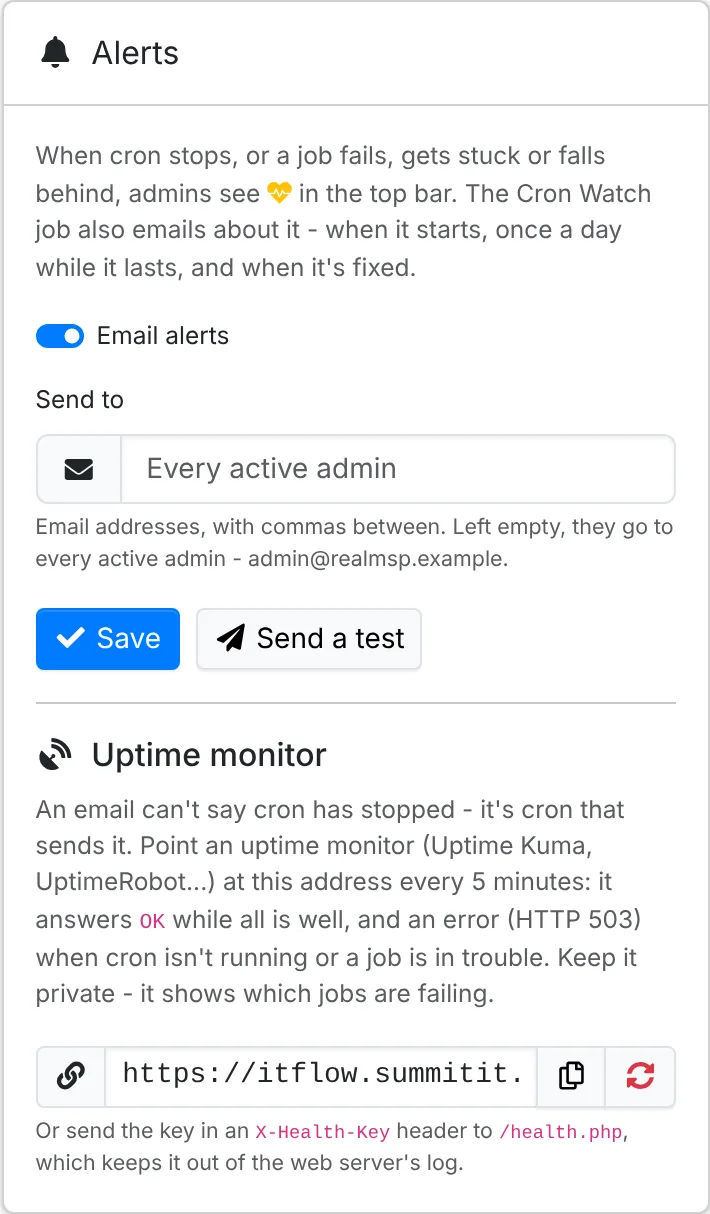
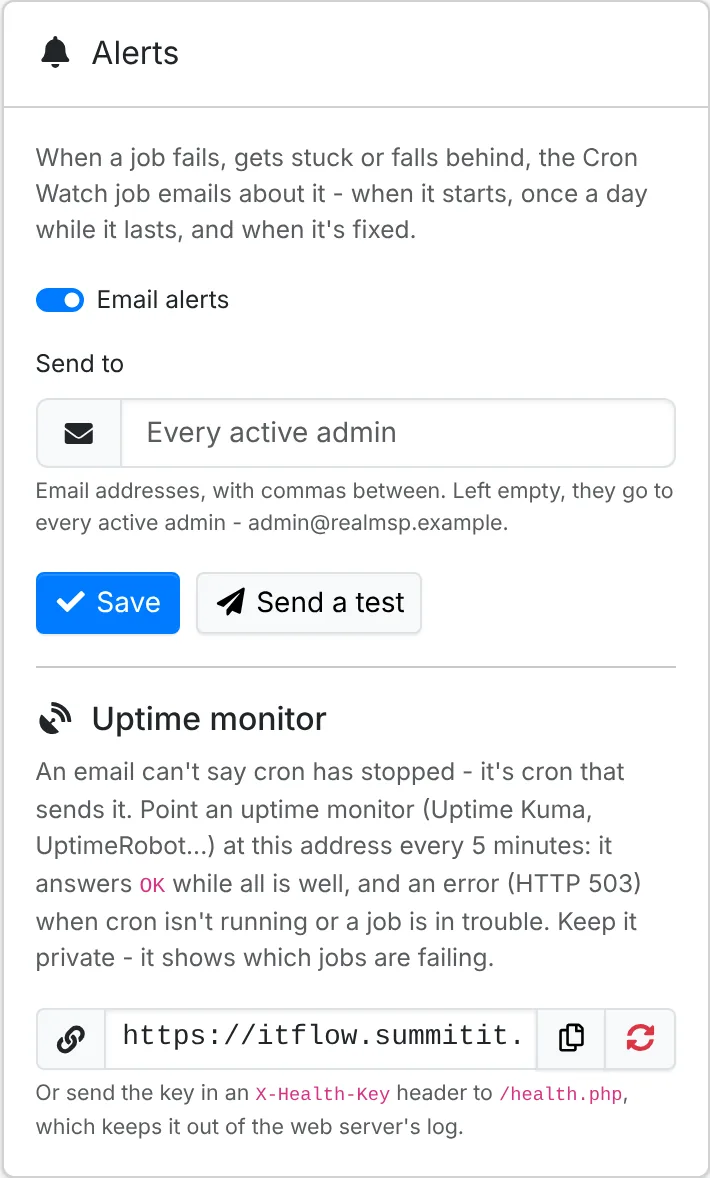
Docs: cron alerts without the top bar heartbeat - Cron Watch emails and the uptime monitor, the Alerts card screenshot retaken and the heartbeat one removed

Changed region(s): [[0.031, 0.1222, 0.9606, 0.8251], [0.031, 0.8557, 0.9296, 0.9779], [0.031, 0.0306, 0.9915, 0.0917]]

diff --git a/content/admin/maintenance.md b/content/admin/maintenance.md
@@ -63,29 +63,23 @@ Each job's menu has:
 Beside the list, **At a glance** has whether cron is running, when it last ran, how many jobs are on and off, any that failed, the next job due, and the time zone the schedules are in. **Alerts** says who hears when something goes wrong - see [below](#cron-alerts). **The cron job** has the line for your server. **Turn cron off** stops every job at once without touching their schedules - what you want on a restored backup or a test copy, so it doesn't email clients or charge cards.
 
 > [!WARNING]
-> If cron stops, email stops going out, recurring invoices aren't made and SLAs aren't watched. ITFlow warns on the Cron, Mail Queue and Backup pages when it hasn't run for a few minutes, and admins see it in the top bar.
+> If cron stops, email stops going out, recurring invoices aren't made and SLAs aren't watched. ITFlow warns on the Cron, Mail Queue and Backup pages when it hasn't run for a few minutes.
 
 ### Alerts {#cron-alerts}
 
-When something here needs you, every admin sees a heartbeat with a count in the top bar, beside the bell, on every page. It's there when:
+The **Cron Watch** job emails your admins when a job needs looking at: once when a problem starts, again once a day while it lasts, and once more when it's fixed - or, when everything is, an all clear. It emails when:
 
-- cron isn't running, or has never run
-- cron is switched off
-- a job failed on its last run
+- a job failed on its last run, with its error
 - a job is still running two hours after it started, and may have stopped part way
 - a job has fallen behind - an every-minute job that hasn't run for ten minutes, say, or a nightly one two hours after its time
 
-Click it for what's wrong, with a failed job's error, and a link to this page. It goes once all is well. Nobody but admins sees it.
-
-![Cron needs attention, in the top bar](adm-cron-health.webp "The top bar: a job stuck, one failed and two behind")
-
-The **Cron Watch** job also emails about it: once when a problem starts, again once a day while it lasts, and once more when it's fixed - or, when everything is, an all clear.
+Cron Watch runs on cron, so it can't email when cron itself has stopped or is switched off. The Cron, Mail Queue and Backup pages say so, and an [uptime monitor](#uptime-monitor) can tell you.
 
 ![The Alerts card](adm-cron-alerts.webp "Alerts: who the emails go to, and the address for an uptime monitor")
 
 On the **Alerts** card beside the jobs:
 
-- **Email alerts** - turn it off and the top bar still warns, but nothing is emailed.
+- **Email alerts** - turn it off and nothing is emailed. The uptime monitor address still works.
 - **Send to** - the addresses the emails go to, with commas between. Leave it empty and they go to every active admin, who are listed under it.
 - **Send a test** - sends a test to the addresses in the box, saved or not. It goes out with the mail queue within a minute, so cron and [mail](/admin/mail) need to be working.
 

diff --git a/content/getting-started/tour.md b/content/getting-started/tour.md
@@ -15,7 +15,6 @@ From left to right:
 - **☰** hides or shows the menu, to give a wide list more room. ITFlow remembers your choice.
 - **Across clients** shows the contacts, locations and documentation of every client together. See [Across clients](#across-clients) below. On a phone it's just its icon.
 - **Search everywhere** finds anything in ITFlow by name, number, phone number or IP address. Press <kbd>Ctrl</kbd> <kbd>K</kbd> from any page to open it. See [Searching](/getting-started/search).
-- A **heartbeat** with a count shows admins when cron needs looking at - a job failed or fell behind, say. Nobody else sees it, and it's only there while something is wrong. See [Cron alerts](/admin/maintenance#cron-alerts).
 - The **bell** shows your notifications, with a count of the unread ones. See [Notifications](/getting-started/notifications).
 - **Your name** opens a menu with **Account** (your profile, password and preferences), **Administration** if you are an admin, and **Logout**.
 
